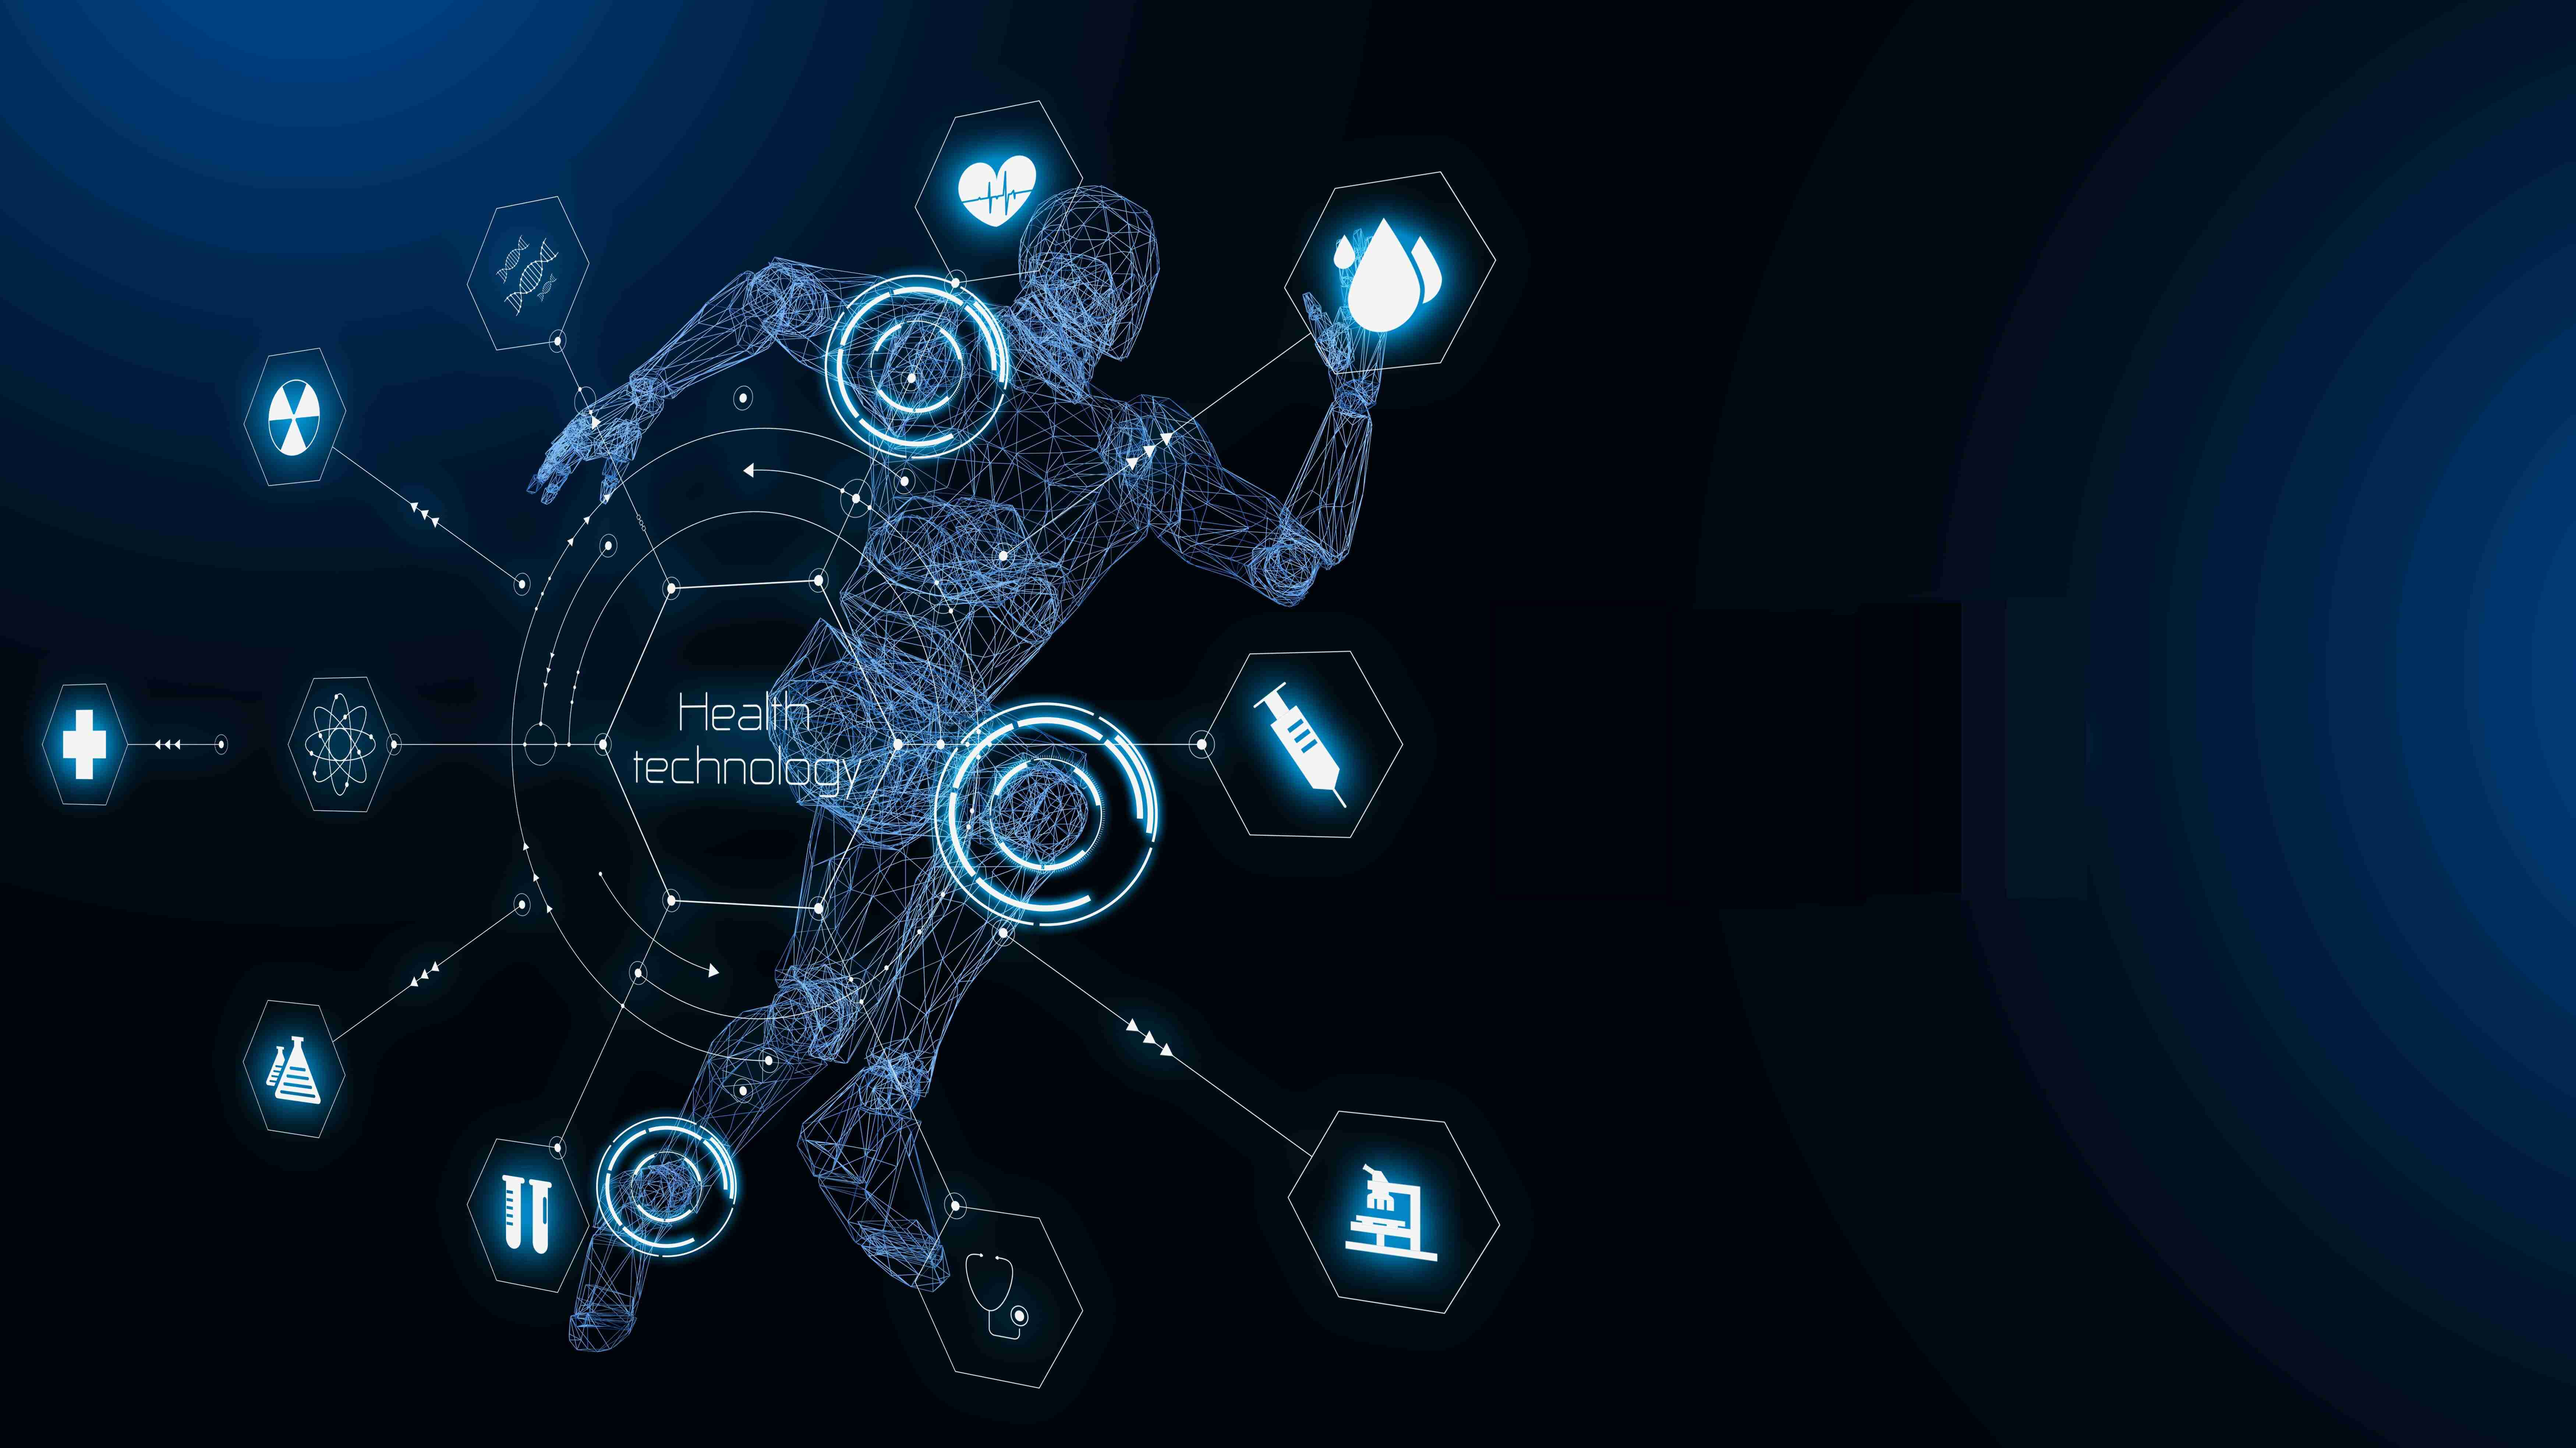
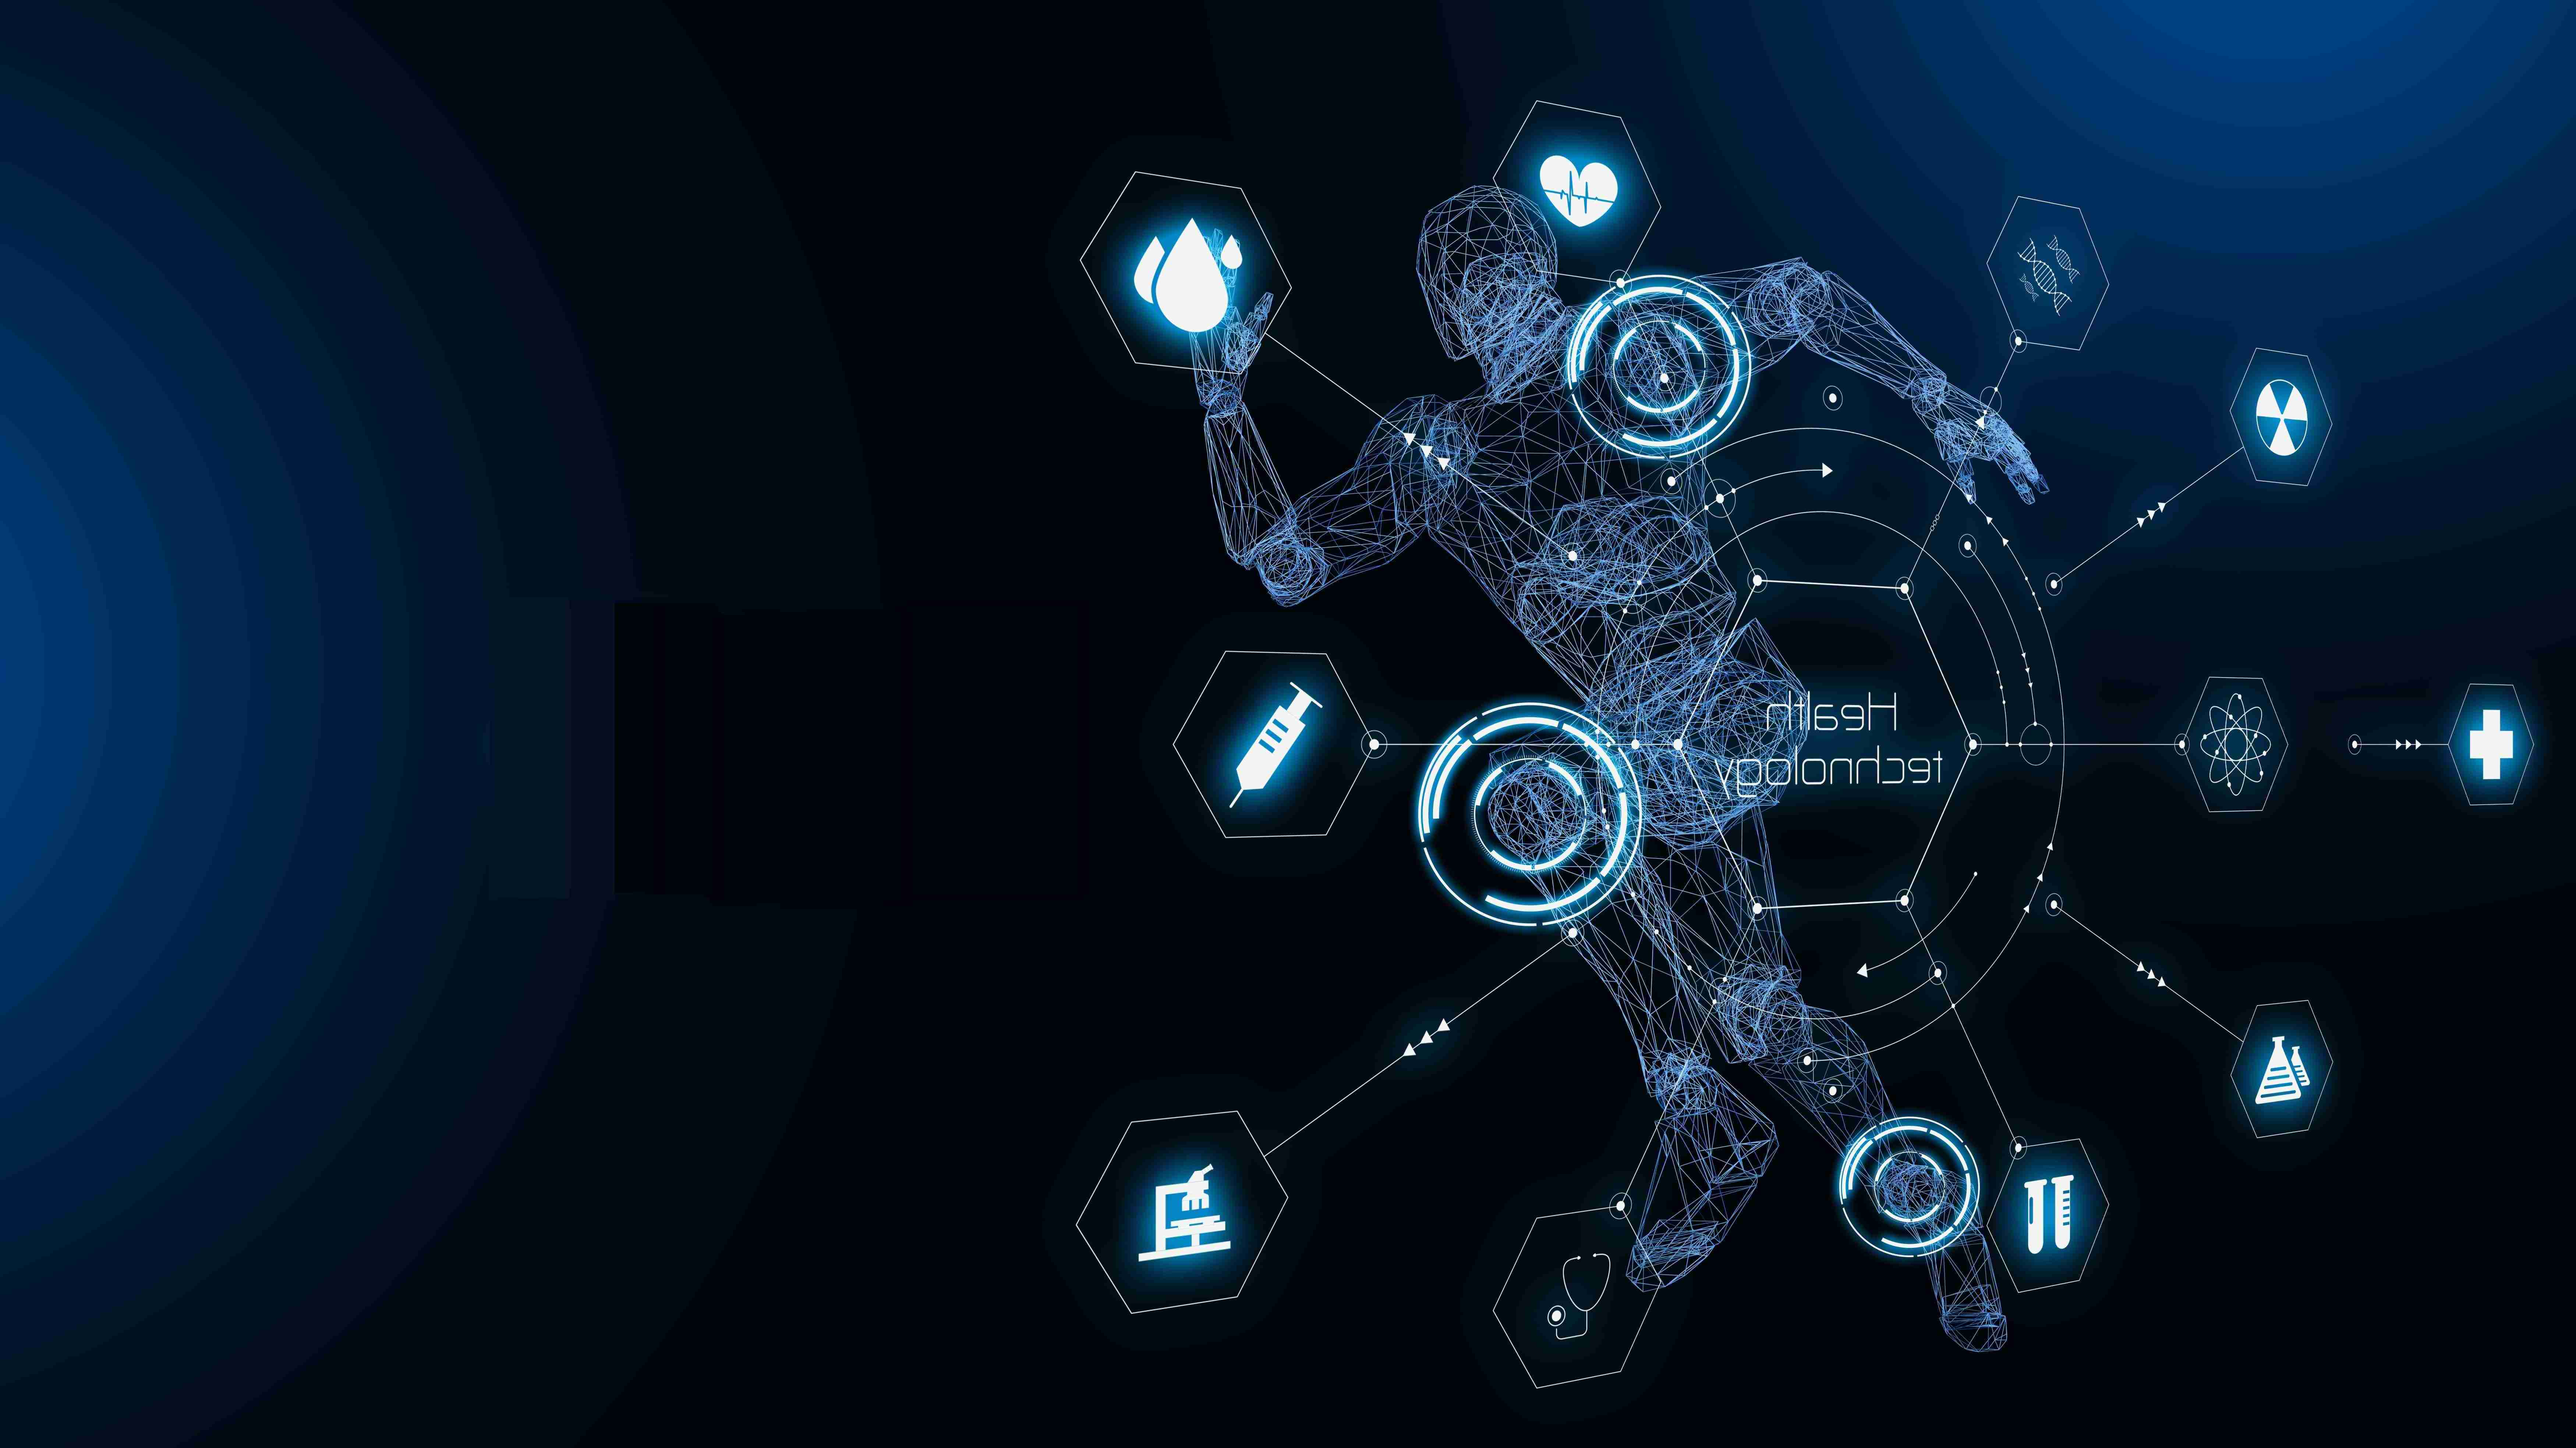
update

diff --git a/content/home/welcome.md b/content/home/welcome.md
@@ -15,13 +15,13 @@ design:
   
   background:
     image: health.jpg
-    image_darken: 1.0
+    image_darken: 0.4
     image_parallax: true
     image_position: center
     image_size: cover
     text_color_light: true
   spacing:
-    padding: ["200px", "25px", "200px", "800px"]
+      padding: [150px 0px 200px 0px]
 
 advanced:
   css_style:
@@ -29,6 +29,6 @@ advanced:
 
 ---
 
-The Sports Science Replication Centre is based in Dublin, Ireland. This intention of this centre is to create a worldwide, collborative investigation into the replicability of research findings specific to the field of sports science using objective and transparent replication studies of current evidence.
+The Sports Science Replication Centre is based in Dublin, Ireland. This intention of this centre is to create a worldwide, collaborative investigation into the replicability of research findings specific to the field of sports science using objective and transparent replication studies of current evidence.
 
 {{< icon name="download" pack="fas" >}} Download our {{< staticref "media/SSRCleaflet.pdf" "newtab" >}}leaflet{{< /staticref >}}.
